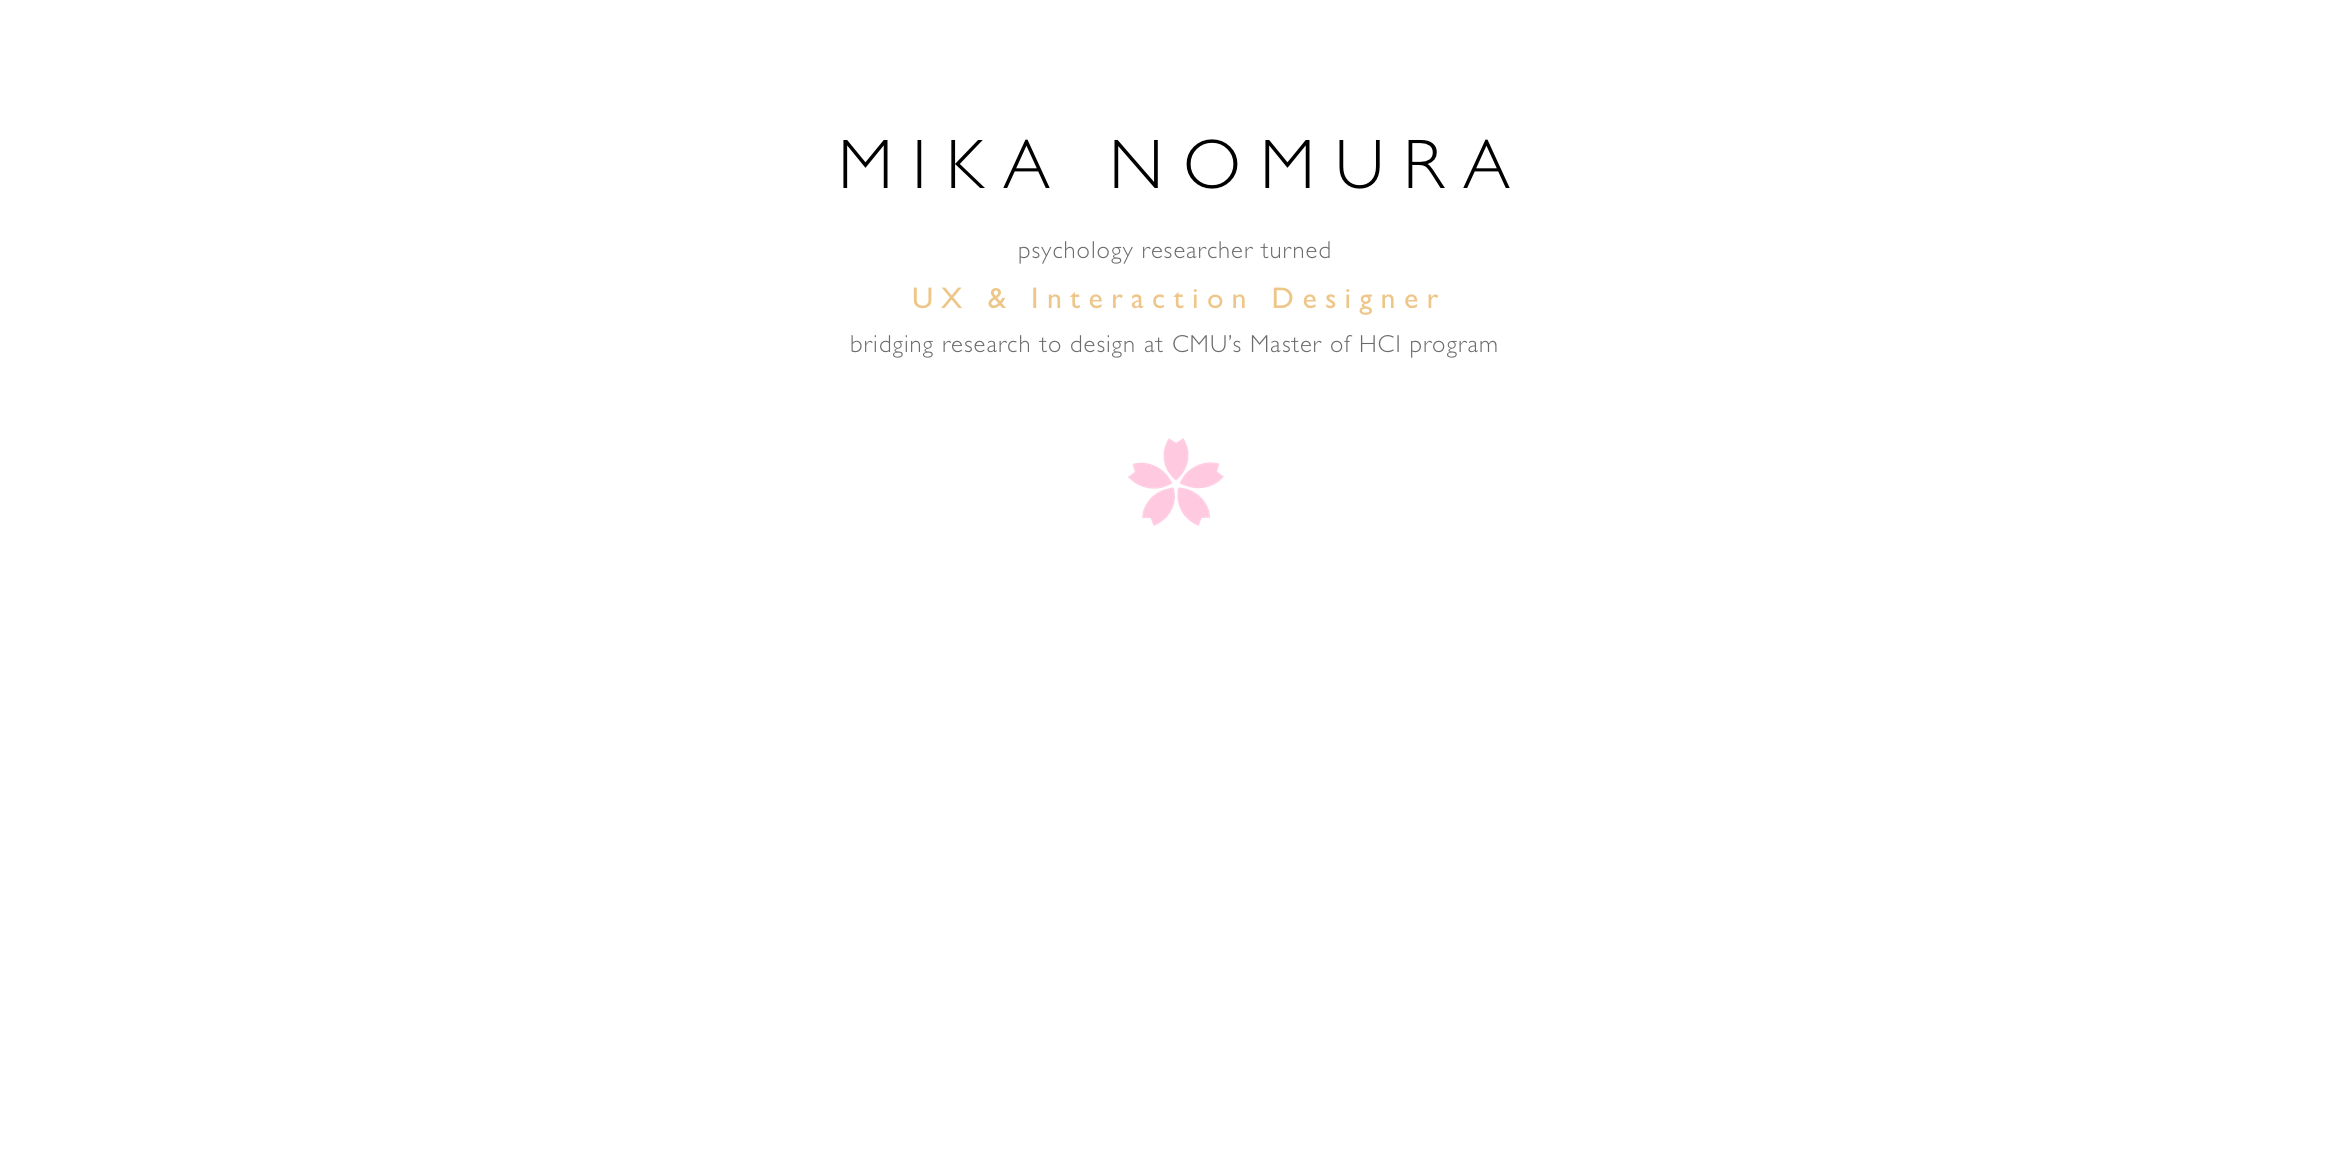
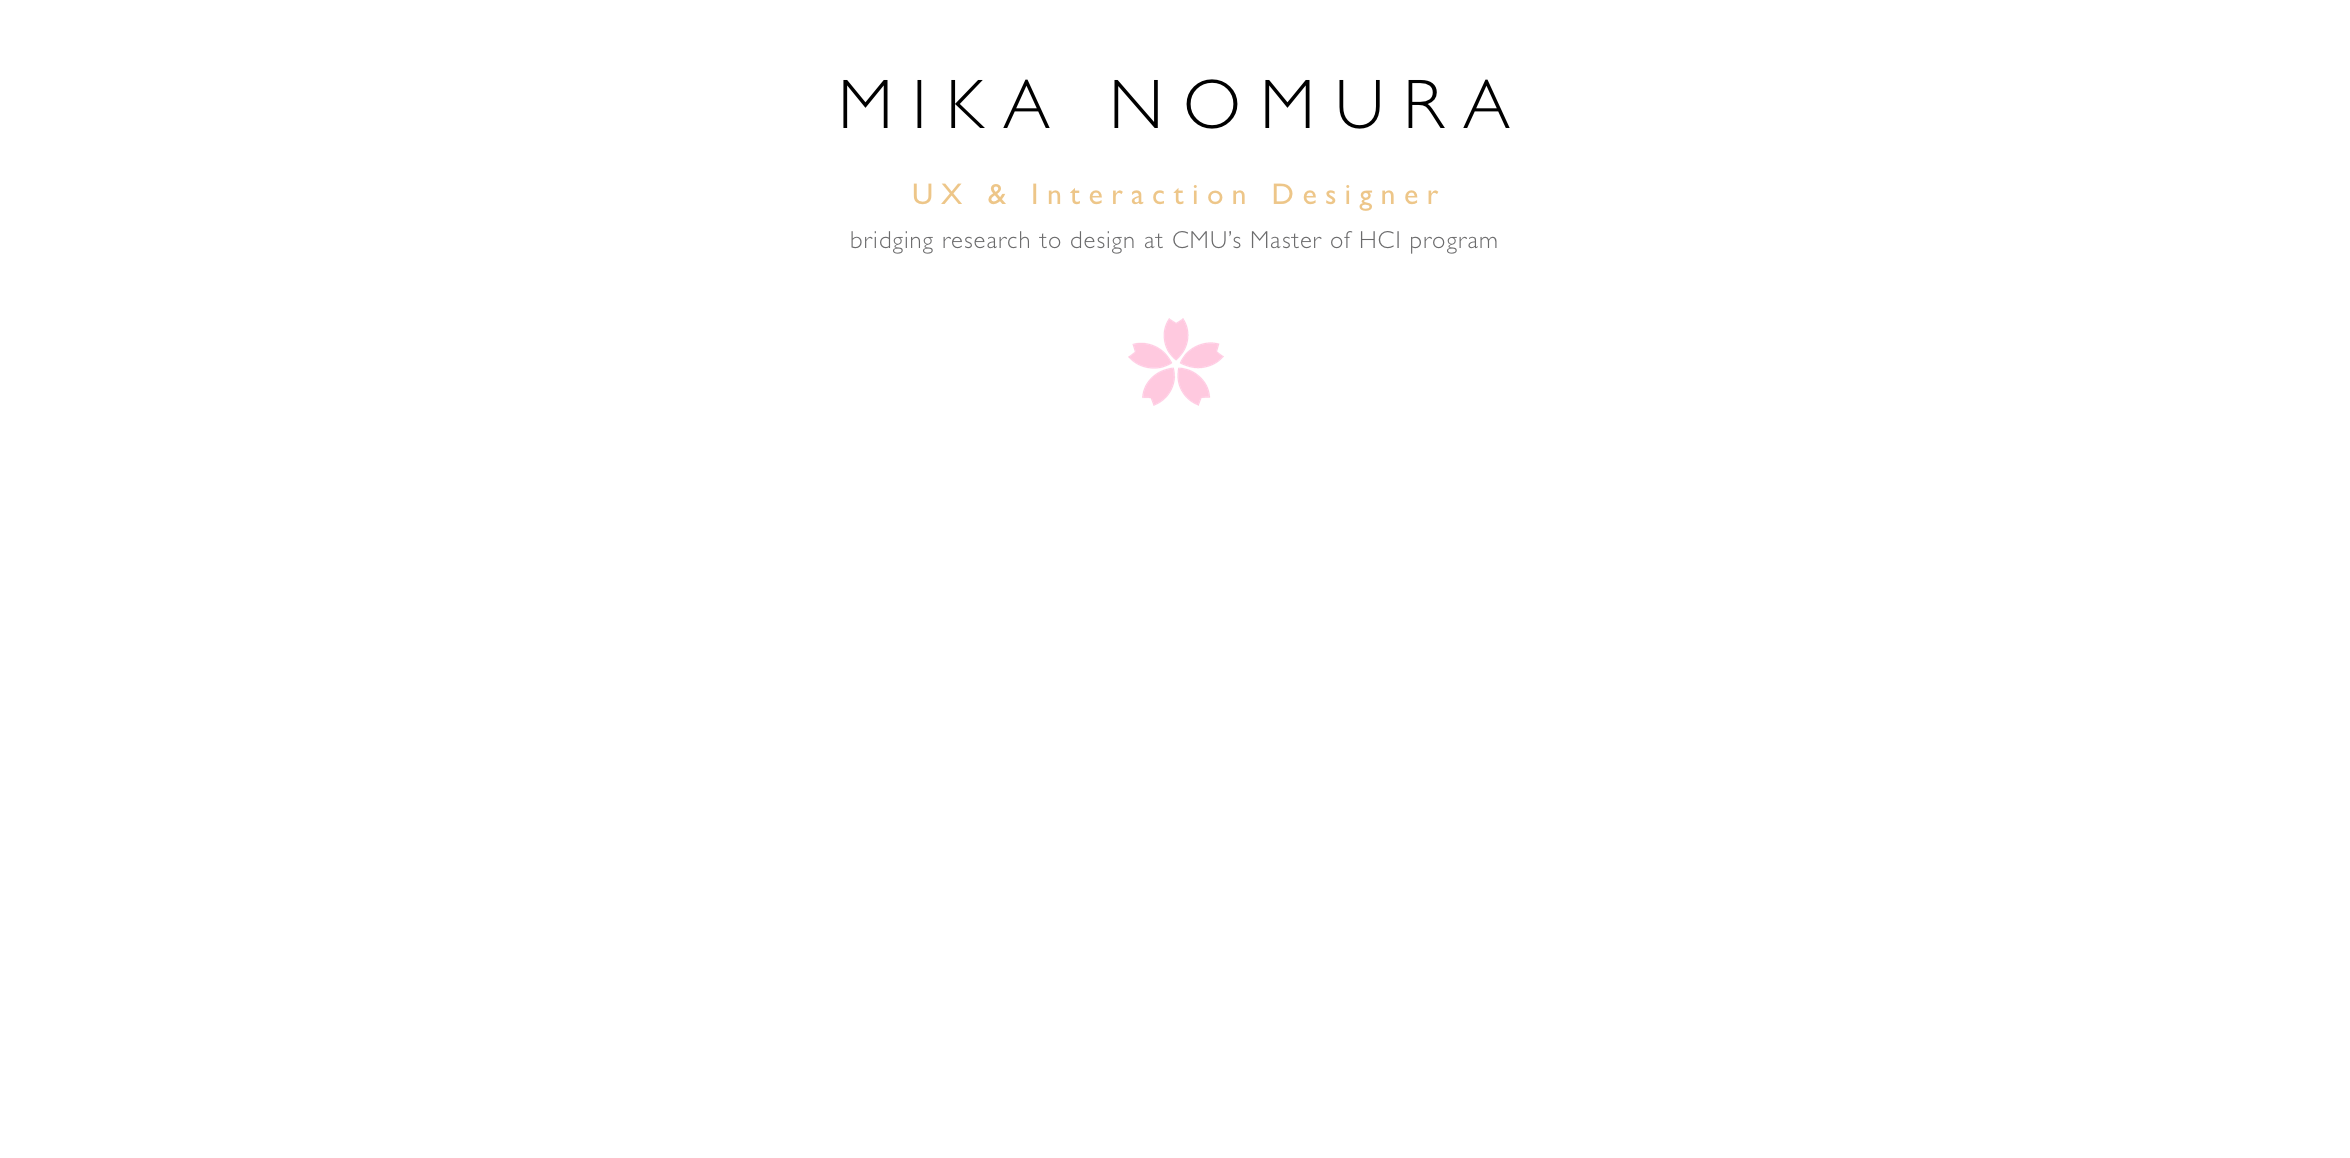
Edits

diff --git a/bio.html b/bio.html
@@ -113,7 +113,7 @@
                 
                 <p>I blend <strong>design</strong>, <strong>psychology</strong> & <strong>technology</strong> using empathy I’ve developed throughout my culturally diverse upbringing. I'm always thinking of ways my diversity can help <strong>reframe complex problems</strong> & influence my designs.</p>
                 
-                <p>I'm passionate about <strong>bridging the gap between UX research & design</strong> - I believe that understanding the context and conducting user research <strong>first hand</strong> is the key to designing a solution that really meets users' desires.</p>
+                <p>I'm passionate about <strong>bridging the gap between UX research & design</strong> - I believe that understanding the context and conducting user research <strong>first hand</strong> is the key to designing a solution that really meets users' desires. In my free time, I love hanging out at trendy cafes, exploring the city & finding good eats.</p>
                 
                 <p>Currently, I'm combining my psychological research background & IT business analyst experience with human-centered design at Carnegie Mellon University’s <strong>Master of Human-Computer Interaction</strong> program.</p>
                 

diff --git a/CSS/jquery-sakura.css b/CSS/jquery-sakura.css
@@ -774,11 +774,11 @@
 }
 
 .sakura {
-    background: -webkit-linear-gradient(120deg, rgba(255, 183, 197, 0.9), rgba(255, 197, 208, 0.9));
-    background: -o-linear-gradient(120deg, rgba(255, 183, 197, 0.9), rgba(255, 197, 208, 0.9));
-    background: -ms-linear-gradient(120deg, rgba(255, 183, 197, 0.9), rgba(255, 197, 208, 0.9));
-    background: -moz-linear-gradient(120deg, rgba(255, 183, 197, 0.9), rgba(255, 197, 208, 0.9));
-    background: linear-gradient(120deg, rgba(255, 183, 197, 0.9), rgba(255, 197, 208, 0.9));
+    background: -webkit-linear-gradient(120deg, rgba(255, 214, 222, 0.9), rgba(255, 230, 234, 0.9));    /* original = rgba(255, 183, 197, 0.9), rgba(255, 197, 208, 0.9) */
+    background: -o-linear-gradient(120deg, rgba(255, 214, 222, 0.9), rgba(255, 230, 234, 0.9));
+    background: -ms-linear-gradient(120deg, rgba(255, 214, 222, 0.9), rgba(255, 230, 234, 0.9));
+    background: -moz-linear-gradient(120deg, rgba(255, 214, 222, 0.9), rgba(255, 230, 234, 0.9));
+    background: linear-gradient(120deg, rgba(255, 214, 222, 0.9), rgba(255, 230, 234, 0.9));
     -webkit-border-radius: 12px 1px;
     -o-border-radius: 12px 1px;
     -ms-border-radius: 12px 1px;

diff --git a/index.html b/index.html
@@ -17,7 +17,7 @@
                 background-image: url("Images/home_page3.png");
 
                 /* Set a specific height */
-                min-height: 330px; 
+                min-height: 180px; 
 
                 /* Create the parallax scrolling effect */
                 background-attachment: fixed;

diff --git a/CSS/style.css b/CSS/style.css
@@ -621,7 +621,8 @@ section a img:hover {
 /* -------------------- BIO ---------------------- */
 
 #profile {
-    width: 300px;
+    width: 310px;
+    height: 410px;
     display: block;
     margin-left: auto;
     margin-right: auto;
